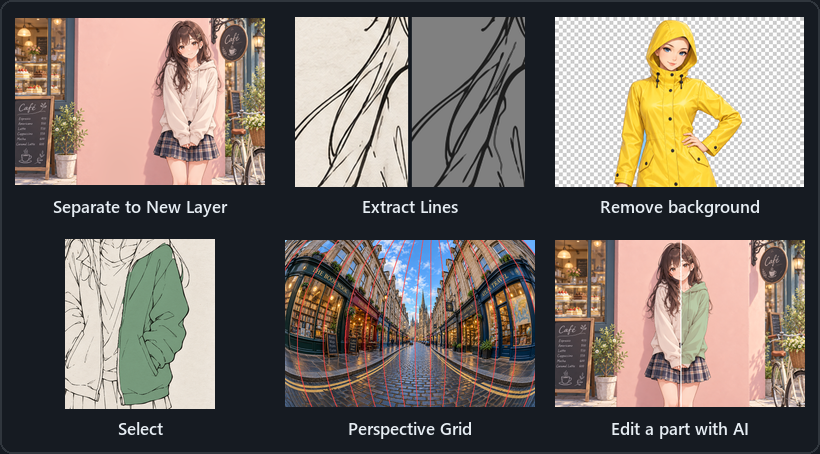
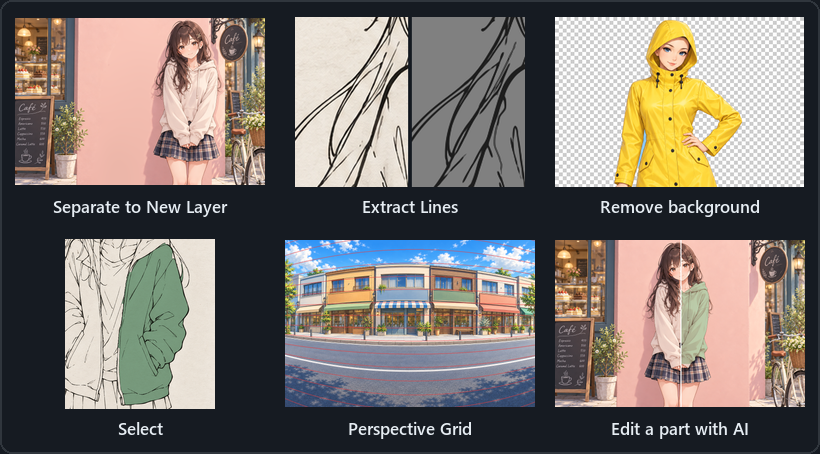
Preview: GIFs redone from the user's notes - Perspective Grid from 2 strokes on a blank canvas (Straight + Curved), Perspective Circle inside the grid, Edit a part with AI = layers > Export > Replace or Codex; YourManager story GIF (messy folders > drop image > PSD), drag GIF without words, Untracke

Changed region(s): [[0.3354, 0.5242, 0.6707, 0.8943]]

diff --git a/README.md b/README.md
@@ -64,17 +64,17 @@ Full install steps: [CAI_DAT_YourManager.txt](CAI_DAT_YourManager.txt)
 | [Clean AI Image **Beta**](#psart-cleancard) | PSArt · Clean | Calm AI image noise: steady line color, smooth edges, clean colors. |
 | [Remove background](#psart-bgcard) | PSArt · Clean | One click erases a plain background, with a smooth edge, gaps included. |
 | [Smooth Color Lines **Beta**](#psart-cfixcard) | PSArt · Clean | Smooth the lines of a color painting; colors stay put. |
-| [Perspective Grid](#psart-gridcard) | PSArt · Perspective | Draw a few rough strokes; get an even perspective grid. |
+| [Perspective Grid](#psart-gridcard) | PSArt · Perspective | Two rough strokes on a blank layer give a perspective grid to paint on. |
 | [Redraw on grid](#psart-redrawcard) | PSArt · Perspective | Redraw a loose sketch straight along your grid, with true perspective circles. |
-| [Export & Replace](#psart-replacecard) | PSArt · Layer Tools | Export a selection as PNG, edit it anywhere, drop it back in the same frame. |
+| [Export & Replace](#psart-replacecard) | PSArt · Layer Tools | Export a layer to PNG, edit it anywhere, Replace puts it back in place. |
 | [Codex](#psart-codex) | PSArt · Codex | Chat with Codex inside Photoshop; send the selection, drop results back. |
+| [Find PSD / PSB from image / PSD](#ym-find) | YourManager · Find | Drop an exported JPG or PNG; open its PSD in one click. |
 | [Projects](#ym-projects) | YourManager · Projects | Save as usual; each new version lands on top of its project. |
-| [Untracked](#ym-untracked) | YourManager · Projects | Every scanned PSD shows up, even outside a project; Track makes it one. |
+| [Drag and drop](#ym-drag) | YourManager · Projects | Sort, merge, add. |
+| [Untracked](#ym-untracked) | YourManager · Projects | Files in no project: click **All**, scroll to the bottom. |
 | [ID inside the file](#ym-file_id) | YourManager · Projects | Rename, copy or move a PSD; it still knows its project and version. |
-| [Find PSD / PSB from image / PSD](#ym-find) | YourManager · Find | Drop an exported JPG or PNG; get its PSD and the newest version. |
 | [Action history](#ym-history) | YourManager · History | Changed your mind? Click any step to go back. |
 | [Settings](#ym-settings) | YourManager · Settings | Choose what gets scanned, the language, and reset data. |
-| [Ask when saving an old version](#ym-save_ask) | YourManager · Settings | Saved an older version? One click moves it to the top. |
 
 <a id="psart"></a>
 
@@ -286,15 +286,17 @@ Make perspective grids from rough strokes and redraw sketches along them.
 
 #### Perspective Grid
 
-*Draw a few rough strokes; get an even perspective grid.*
+*Two rough strokes on a blank layer give a perspective grid to paint on.*
 
-<p align="center"><img src="docs/media/psart/perspCurved.gif" alt="A fisheye street photo: 4 rough strokes on its edges give a curved grid that follows the bent verticals" width="720"></p>
+<p align="center"><img src="docs/media/psart/perspMake.gif" alt="A blank canvas: 2 rough strokes, Make grid (Straight) gives a 1-point grid, then a hallway painted on it" width="720"></p>
+
+<p align="center"><img src="docs/media/psart/perspCurved.gif" alt="A blank canvas: 2 rough curves, Make grid (Curved) gives bent horizontals, then a street painted on them" width="720"></p>
 
 **How to use**
 
-1. Draw rough strokes on a new layer.
-2. Choose **Type** and **Density**.
-3. Click **Make grid**.
+1. Draw 2 rough strokes on a new layer.
+2. Choose **Type** (Straight or Curved) and **Density**.
+3. Click **Make grid**, then paint along it.
 
 <details><summary>Options / Tips & limits</summary>
 
@@ -314,7 +316,7 @@ Make perspective grids from rough strokes and redraw sketches along them.
 
 *Redraw a loose sketch straight along your grid, with true perspective circles.*
 
-<p align="center"><img src="docs/media/psart/perspCircle.gif" alt="A wobbly sketched circle becomes a clean perspective ellipse" width="720"></p>
+<p align="center"><img src="docs/media/psart/perspCircle.gif" alt="On a hallway grid, a rough circle on the floor and one on the wall become ellipses that fit their grid cell" width="720"></p>
 
 **How to use**
 
@@ -328,15 +330,15 @@ Make perspective grids from rough strokes and redraw sketches along them.
 
 #### Export & Replace
 
-*Export a selection as PNG, edit it anywhere, drop it back in the same frame.*
+*Export a layer to PNG, edit it anywhere, Replace puts it back in place.*
 
-<p align="center"><img src="docs/media/psart/editAI.gif" alt="Lasso part of a painting, export it as PNG, recolor it with AI, Replace puts it back in the same frame" width="720"></p>
+<p align="center"><img src="docs/media/psart/editAI.gif" alt="A picture in layers: lasso and Export save a PNG to a folder; edited, Replace puts it back; or send it in the Codex tab and right-click the answer, Replace" width="720"></p>
 
 **How to use**
 
-1. Choose an **Export folder** (gear button).
-2. Click **Export**.
-3. Edit the PNG, choose it in the box, press **Replace**.
+1. Select an area, click **Export**: a PNG in your folder (no AI needed).
+2. Edit the PNG in any app or AI.
+3. Choose it, press **Replace**: it lands in the same frame.
 
 <details><summary>Options / Tips & limits</summary>
 
@@ -348,7 +350,7 @@ Make perspective grids from rough strokes and redraw sketches along them.
 
 **Tips & limits**
 
-- Handy for AI editing: the result lands pixel-aligned.
+- Choose the **Export folder** with the gear button.
 
 </details>
 
@@ -362,7 +364,7 @@ Make perspective grids from rough strokes and redraw sketches along them.
 
 1. Click **Connect**.
 2. Select an area, type your message.
-3. Press **Send**; right-click an image > **Replace**.
+3. Press **Send**; right-click the image you get back > **Replace**.
 
 <details><summary>Tips & limits</summary>
 
@@ -380,17 +382,39 @@ Make perspective grids from rough strokes and redraw sketches along them.
 
 ## YourManager 0.4.0
 
-**Every version of your PSD files in one list per project, even after rename, copy or move.**
+**Drop an exported image; YourManager opens the PSD it came from.**
 
-A small project code is saved inside each PSD, so the panel still knows the file after you rename or move it. Everything stays on your PC.
+Each PSD keeps a small ID inside it, so the panel still finds it after you rename, copy or move it. Everything stays on your PC.
 
 <a href="https://github.com/DanhBoo/psart-plugin/releases/download/v2026.10.26b/YourManager_0.4.0.zip"><img alt="Download YourManager 0.4.0" src="https://img.shields.io/badge/Download-YourManager%200.4.0-2ea44f?style=for-the-badge"></a>
 
-### Projects
+### Find
 
-<p align="center"><img src="docs/media/ym/panel_projects.png" alt="Projects tab: four demo projects, Character expanded with versions v1 to v4" width="360"></p>
+<a id="ym-find"></a>
+
+#### Find PSD / PSB from image / PSD
+
+*Drop an exported JPG or PNG; open its PSD in one click.*
+
+<p align="center"><img src="docs/media/ym/messy_to_psd.gif" alt="Badly named folders in Explorer; char_FINAL.jpg dropped on Find; Open; char_new_FIX.psd opens in Photoshop and its row is picked in Projects" width="820"></p>
 
 <p align="center"><sub>mock-up, not a Photoshop screenshot</sub></p>
+
+**Scan IDs** reads the ID inside every PSD and image in your scan folders once, so a dropped image finds its PSD. **Rescan IDs** reads only new or changed files; YourManager does it by itself when you open Find and the last scan is over 10 minutes old.
+
+**How to use**
+
+1. **Settings**: add the folders that hold your PSDs.
+2. **Find**: click **Scan IDs** once.
+3. Drop an image on the box, click **Open**.
+
+<details><summary>Tips & limits</summary>
+
+- Works best on images exported from Photoshop.
+
+</details>
+
+### Projects
 
 <a id="ym-projects"></a>
 
@@ -404,9 +428,8 @@ A small project code is saved inside each PSD, so the panel still knows the file
 
 **How to use**
 
-1. Open a PSD and save it.
-2. Save As a new name for each version.
-3. In **Projects**, double-click a version to open it.
+1. Save As a new name for each version.
+2. Double-click a version to open it.
 
 <details><summary>Options / Tips & limits</summary>
 
@@ -420,25 +443,33 @@ A small project code is saved inside each PSD, so the panel still knows the file
 
 </details>
 
+<a id="ym-drag"></a>
+
+#### Drag and drop
+
+*Sort, merge, add.*
+
+<p align="center"><img src="docs/media/ym/drag_projects.gif" alt="Drag Logo above Character; drop Landscape on Poster (merged); All: drag mug_icon from Untracked onto Logo (added)" width="360"></p>
+
+<p align="center"><sub>mock-up, not a Photoshop screenshot</sub></p>
+
 <a id="ym-untracked"></a>
 
 #### Untracked
 
-*Every scanned PSD shows up, even outside a project; Track makes it one.*
+*Files in no project: click **All**, scroll to the bottom.*
 
-<p align="center"><img src="docs/media/ym/untracked_track.gif" alt="Projects > All: tree_color under Untracked (grey name) > right-click > Track > it is a project on top" width="360"></p>
+<p align="center"><img src="docs/media/ym/untracked_track.gif" alt="Projects > All > scroll down to Untracked > right-click tree_color > Track > it is a project on top" width="360"></p>
 
 <p align="center"><sub>mock-up, not a Photoshop screenshot</sub></p>
 
 **How to use**
 
-1. In **Projects**, click **All**.
-2. Right-click a group under **Untracked**.
-3. Click **Track**: it becomes a project on top.
+1. Right-click a group under **Untracked**.
+2. Click **Track**: it becomes a project.
 
 <details><summary>Tips & limits</summary>
 
-- Drag a group onto a project to add it; drag a project onto another to merge.
 - **Untrack** on a project sends it back to Untracked.
 
 </details>
@@ -452,40 +483,6 @@ A small project code is saved inside each PSD, so the panel still knows the file
 <p align="center"><img src="docs/media/ym/rename_keeps_id.gif" alt="character_v02.psd renamed in Explorer, then opened: the row becomes character_lineart.psd, still v2" width="360"></p>
 
 <p align="center"><sub>mock-up, not a Photoshop screenshot</sub></p>
-
-**How to use**
-
-1. Rename or move a PSD in Explorer.
-2. Open it in Photoshop.
-3. Its row in **Projects** follows it.
-
-### Find
-
-<p align="center"><img src="docs/media/ym/panel_find.png" alt="Find tab after dropping an exported JPG: three matching PSD files" width="360"></p>
-
-<p align="center"><sub>mock-up, not a Photoshop screenshot</sub></p>
-
-<a id="ym-find"></a>
-
-#### Find PSD / PSB from image / PSD
-
-*Drop an exported JPG or PNG; get its PSD and the newest version.*
-
-<p align="center"><img src="docs/media/ym/find_from_image.gif" alt="Drop character_export.jpg on Find: three PSD files found, Open jumps to character_v03.psd in Projects" width="360"></p>
-
-<p align="center"><sub>mock-up, not a Photoshop screenshot</sub></p>
-
-**How to use**
-
-1. Click **Scan IDs: PSD / PSB / images** once.
-2. Drop an image or PSD on the box.
-3. Click **Open** on a result.
-
-<details><summary>Tips & limits</summary>
-
-- Works best on images exported from Photoshop.
-
-</details>
 
 ### History
 
@@ -501,15 +498,10 @@ A small project code is saved inside each PSD, so the panel still knows the file
 
 **How to use**
 
-1. Open **History**.
-2. Click a row to go back to it.
-3. Click a faded row to redo.
+1. Click a row to go back to it.
+2. Click a faded row to redo.
 
 ### Settings
-
-<p align="center"><img src="docs/media/ym/panel_settings.png" alt="Settings tab with all four sections open" width="360"></p>
-
-<p align="center"><sub>mock-up, not a Photoshop screenshot</sub></p>
 
 <a id="ym-settings"></a>
 
@@ -517,36 +509,15 @@ A small project code is saved inside each PSD, so the panel still knows the file
 
 *Choose what gets scanned, the language, and reset data.*
 
-**How to use**
+<details><summary>Options / Tips & limits</summary>
 
-1. Open **Settings**.
-2. Add scan folders; pick file types.
-3. Pick the language.
+**Options**
 
-<details><summary>Tips & limits</summary>
+- **Notifications > Ask on save** - Saving a version that is not on top asks: **Yes, move to top** or **No**.
+
+**Tips & limits**
 
 - Delete `%APPDATA%\YourManager` to uninstall completely.
-
-</details>
-
-<a id="ym-save_ask"></a>
-
-#### Ask when saving an old version
-
-*Saved an older version? One click moves it to the top.*
-
-<p align="center"><img src="docs/media/ym/ask_on_save.png" alt="Dialog: Is this the newest version? - No / Yes, move to top" width="400"></p>
-
-<p align="center"><sub>mock-up, not a Photoshop screenshot</sub></p>
-
-**How to use**
-
-1. Save a version that is not on top.
-2. Click **Yes, move to top** or **No**.
-
-<details><summary>Tips & limits</summary>
-
-- Turn the question back on in **Settings > Notifications**.
 
 </details>
 
@@ -566,9 +537,7 @@ A small project code is saved inside each PSD, so the panel still knows the file
 
 - **All** also lists **Untracked**: scanned files in no project, grouped by source file. **Track** makes one a project. ([→](#ym-untracked))
 
-  <img src="docs/media/ym/untracked_track.gif" alt="Projects > All > Untracked > Track" width="480">
-
-- Drag a group or file onto a project to add it; drag a project onto another to merge. ([→](#ym-untracked))
+- Drag a group or file onto a project to add it; drag a project onto another to merge. ([→](#ym-drag))
 
 - **Not in this project** and **Untrack** send files back to Untracked (undo in History). ([→](#ym-projects))
 
